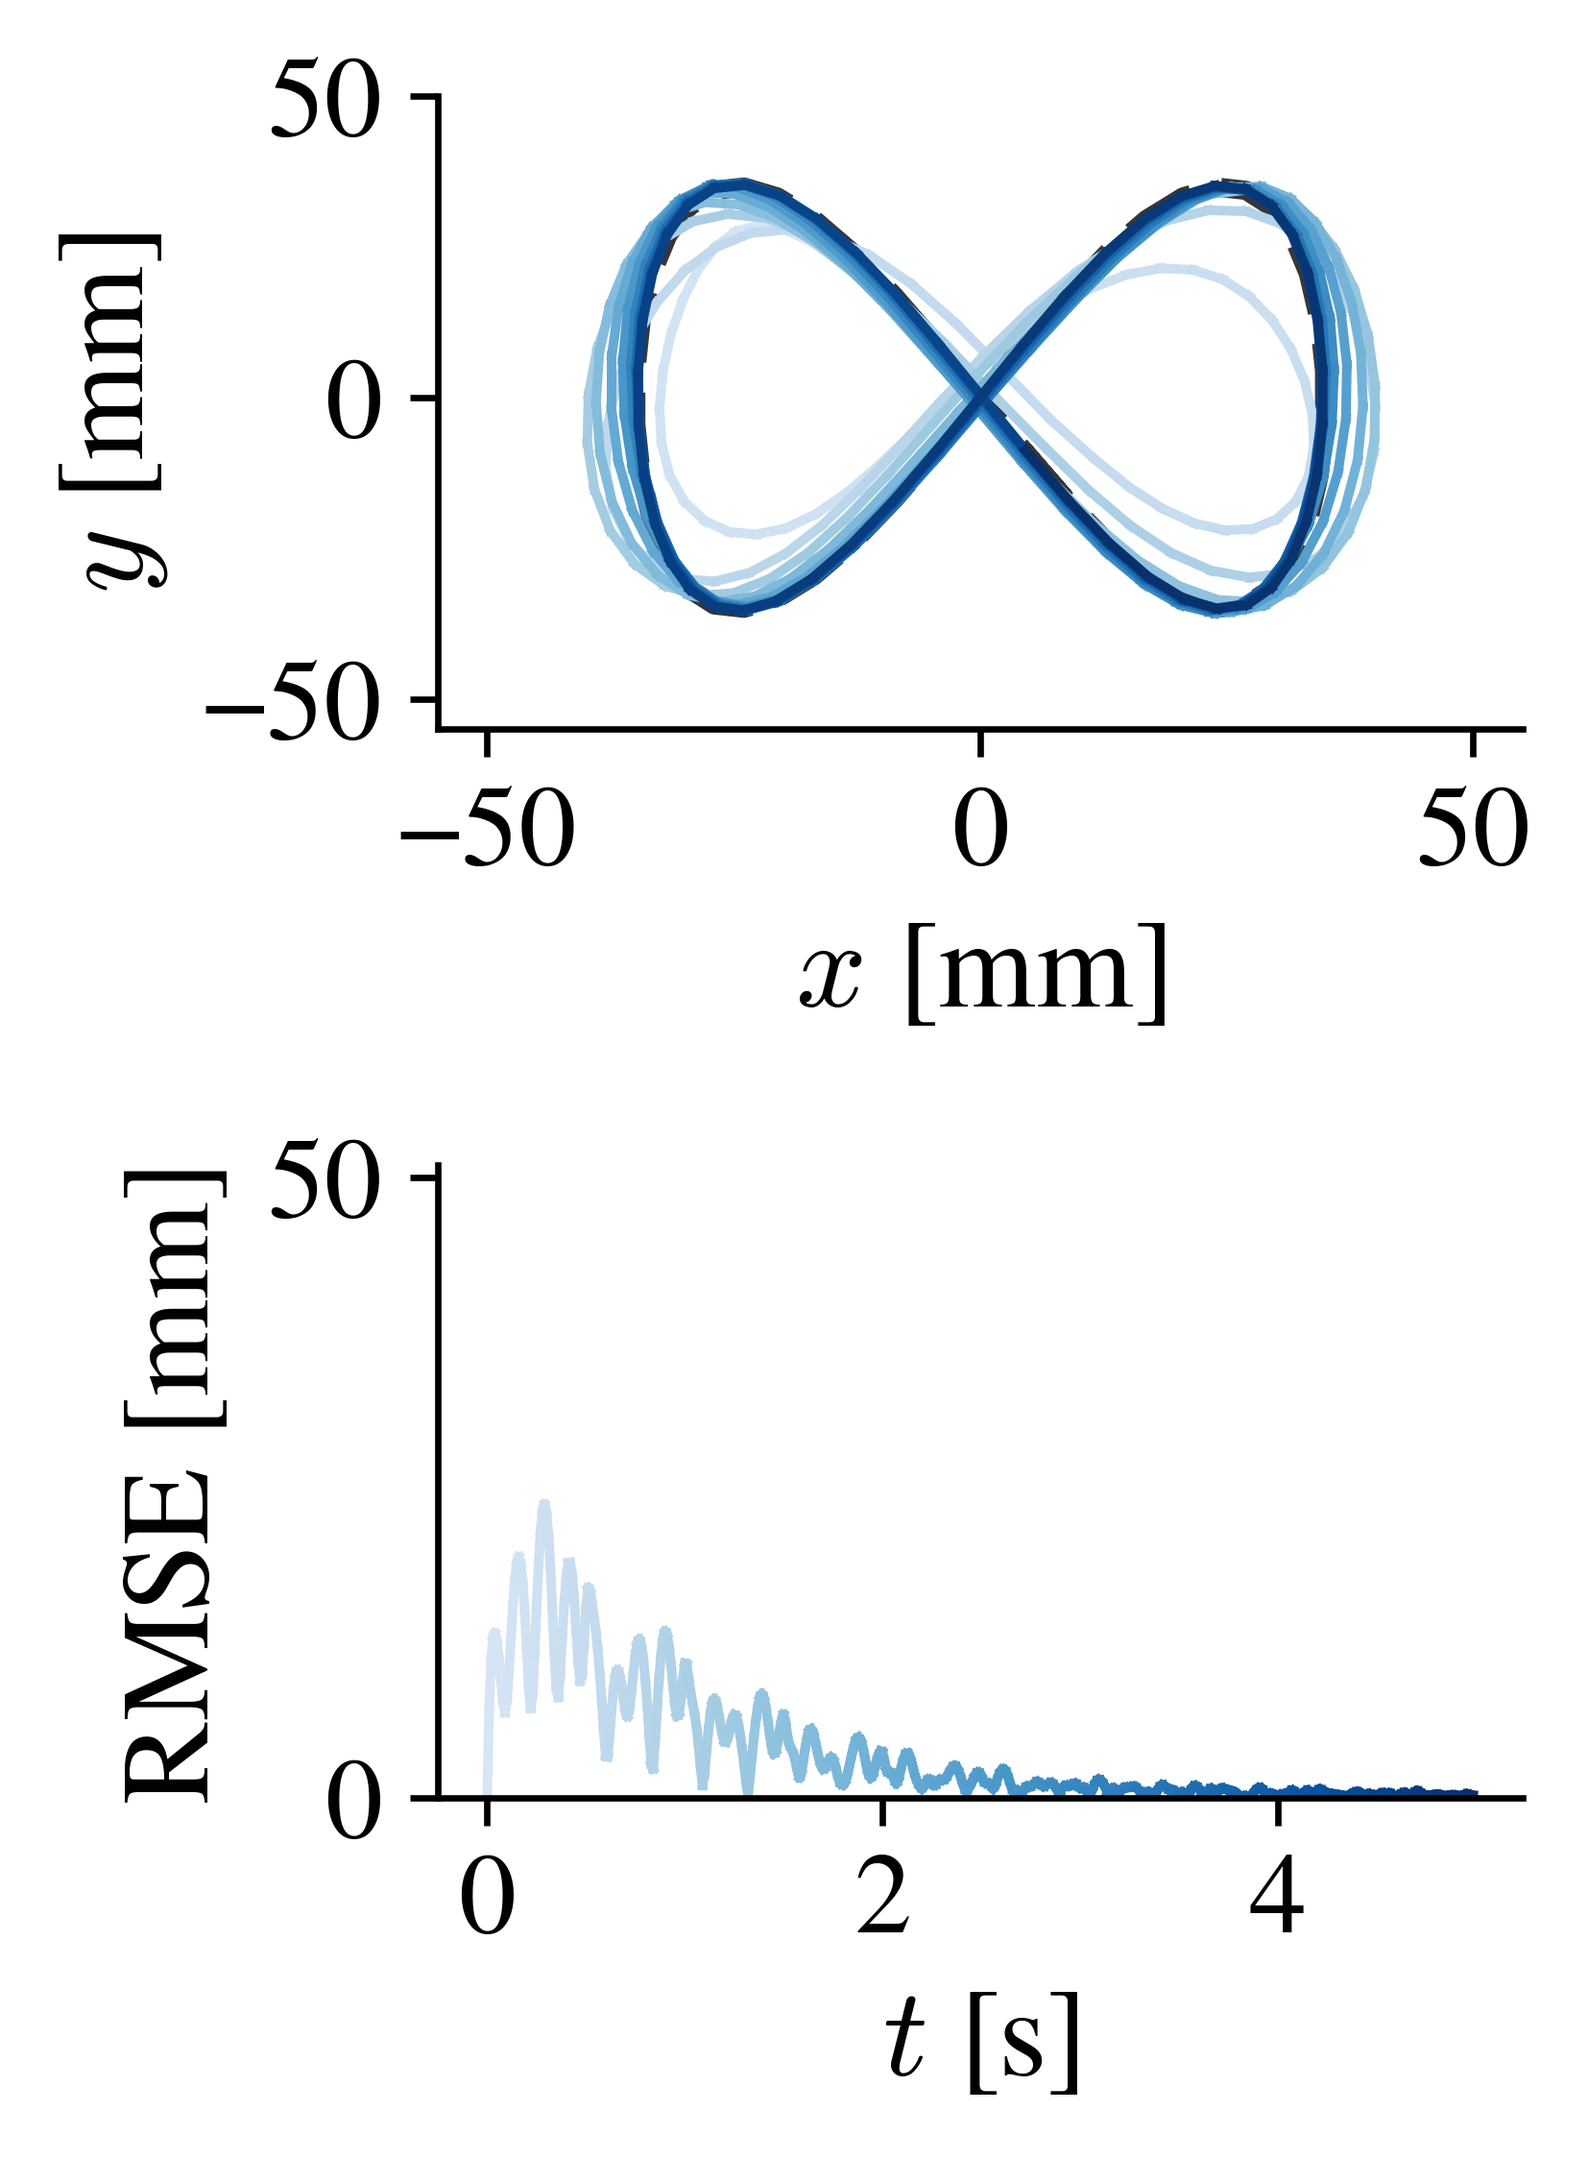
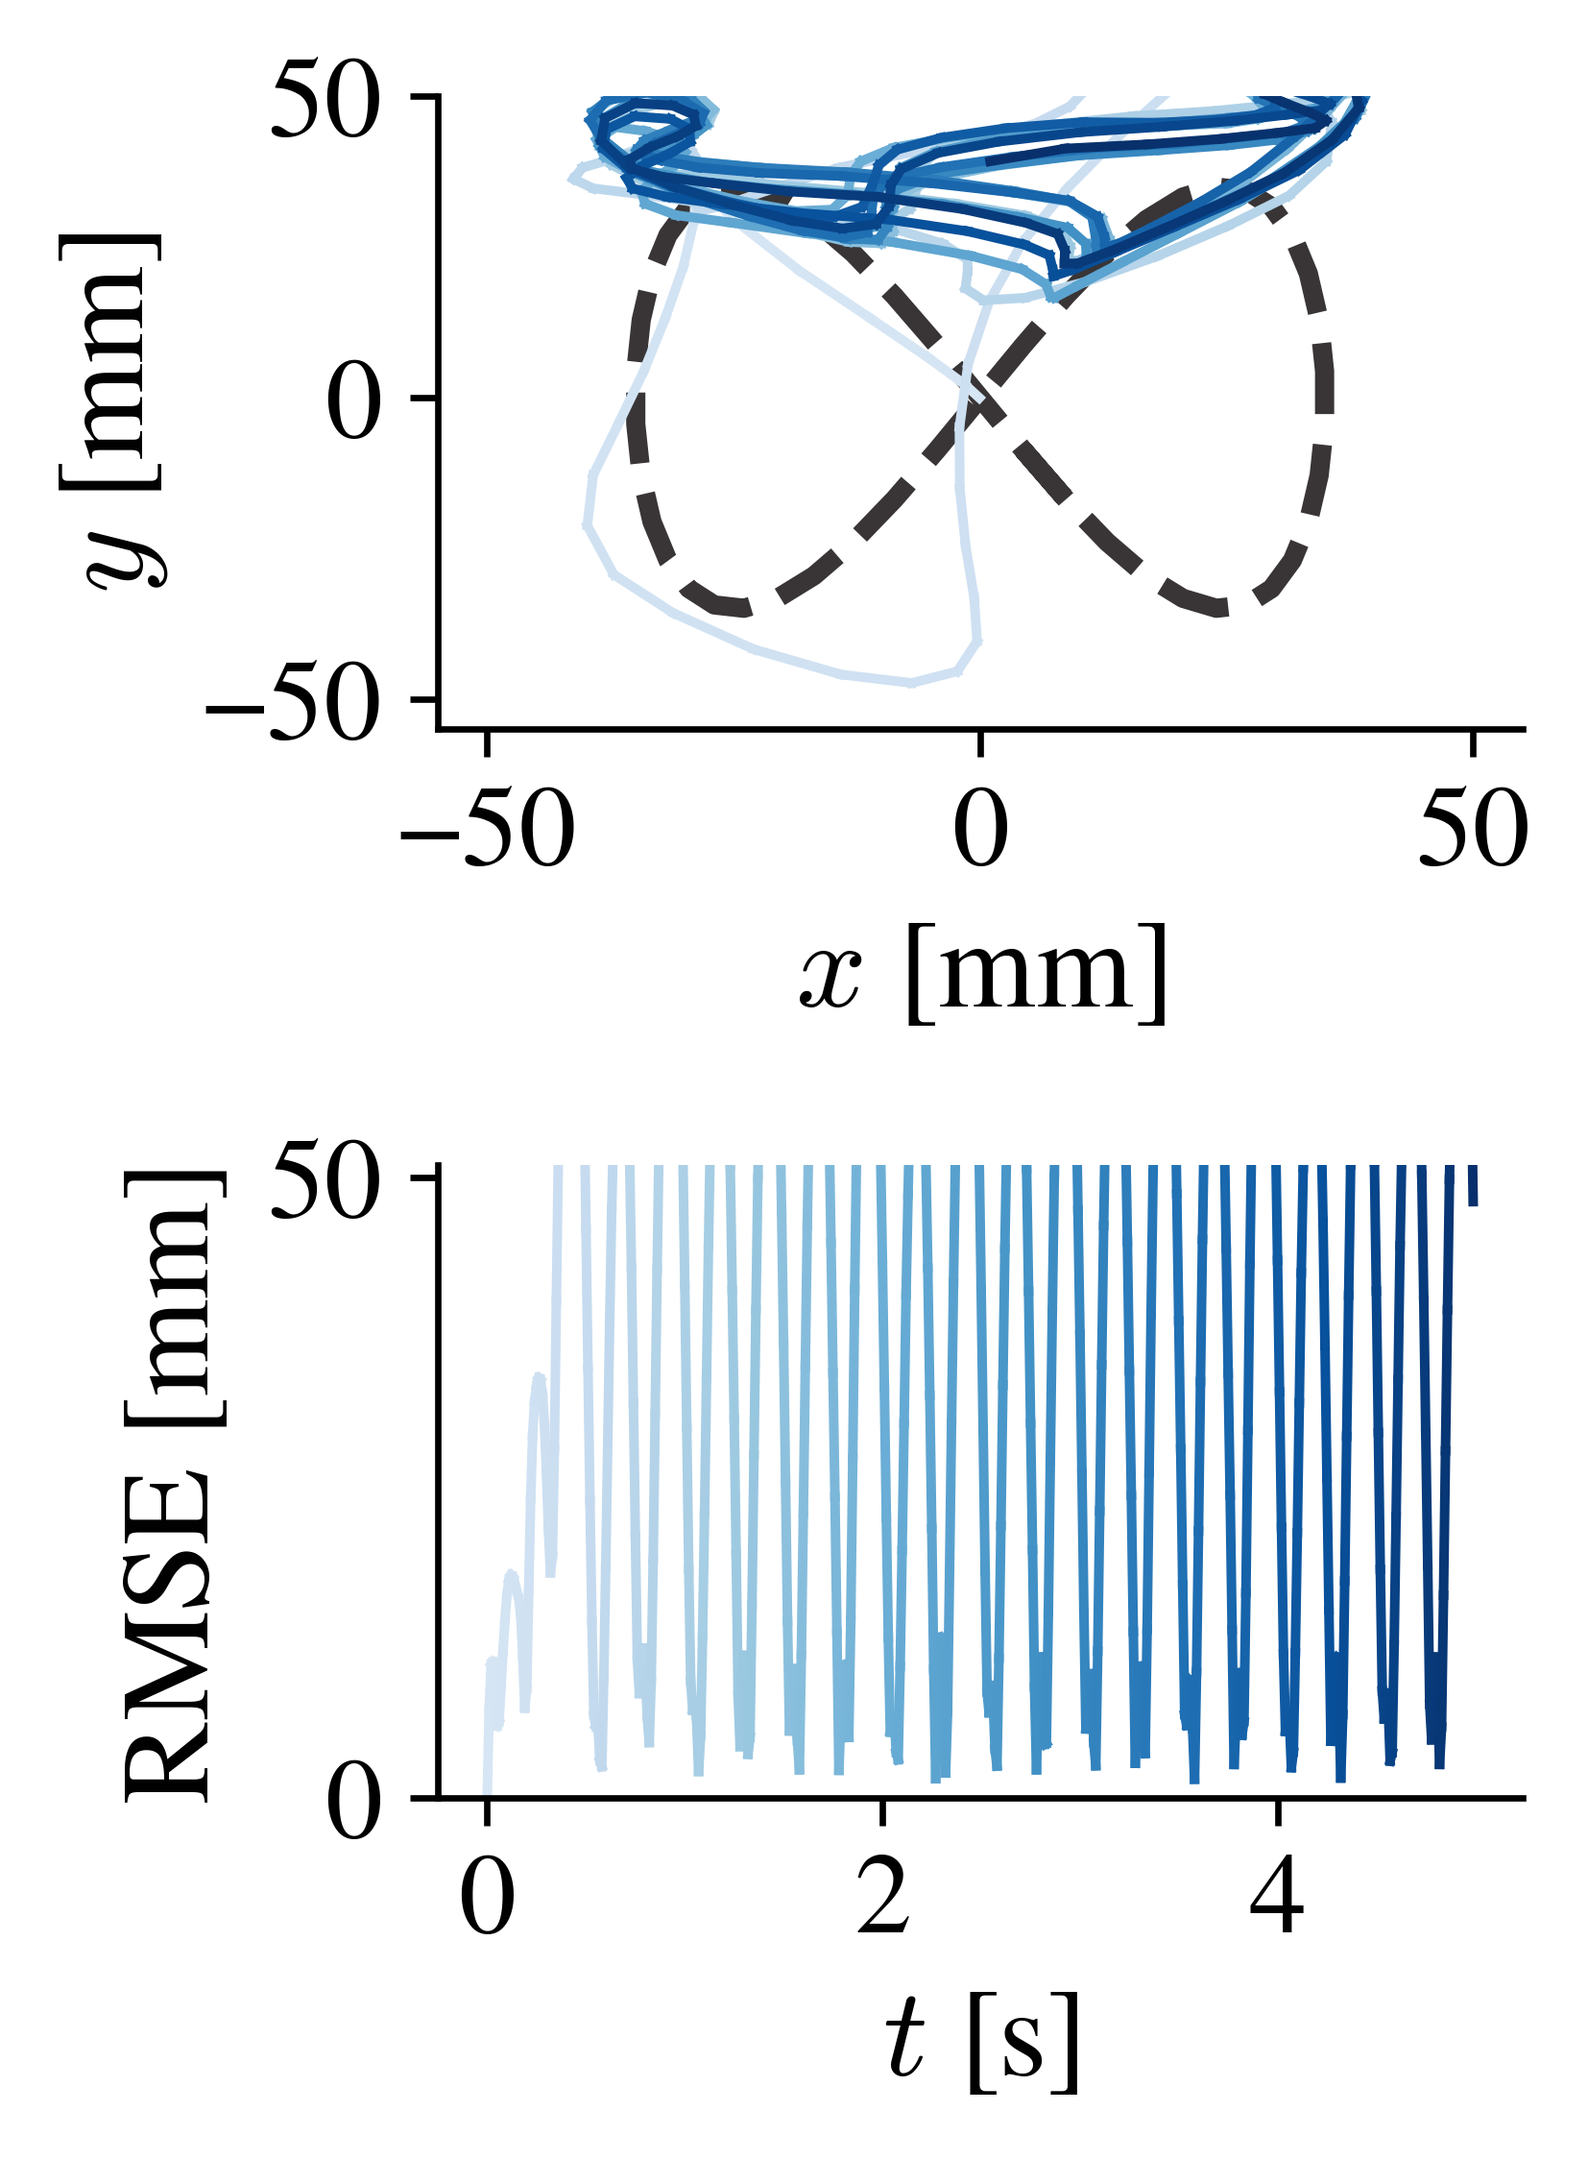
Pi-MPC Implementation (LDO) for IROS24

Changed region(s): [[0.3083, 0.5294, 0.9559, 0.8407], [0.3392, 0.0311, 0.8942, 0.3114], [0.5242, 0.3114, 0.5859, 0.3425]]

diff --git a/sofacontrol/SSM/observer.py b/sofacontrol/SSM/observer.py
@@ -91,32 +91,31 @@ class SSMObserverLDO:
         u = jnp.asarray(u)
         A_d, B_d, d_d = self.dyn_sys.get_jacobians(self.x, u, dt)
 
-        d_curr = self.d[:self.dyn_sys.Nid]
         # innov[k,:] = L_LDO @ ( C @ xhat[k,:] + Cd @ S0 @ dhat[k,:] - y[k,:] )
-        self.err = (self.dyn_sys.reduced_to_output(jnp.array(self.x)) + self.dyn_sys.Cd @ d_curr - self.dyn_sys.C @ y_k)
+        self.err = (self.dyn_sys.reduced_to_output(jnp.array(self.x)) + self.dyn_sys.Cdist @ self.d - self.dyn_sys.C @ y_k)
         self.innov = self.dyn_sys.L_LDO @ self.err
         # xhat[k+1,:] = A @ xhat[k,:] + B @ u[k,:] + Bd @ S0 @ dhat[k,:] + innov[k,:nx]
-        self.x = jnp.asarray(self.dyn_sys.update_dynamics(self.x, u, A_d, B_d, d_d)) + self.dyn_sys.Bd @ d_curr + self.innov[:self.dyn_sys.state_dim]
+        self.x = jnp.asarray(self.dyn_sys.update_dynamics(self.x, u, A_d, B_d, d_d)) + self.dyn_sys.Bdist @ self.d + self.innov[:self.dyn_sys.state_dim]
         # dhat[k+1,:] = Sd @ dhat[k,:] + innov[k,nx:]
         self.d = self.dyn_sys.Sd @ self.d + self.innov[self.dyn_sys.state_dim:]
 
         self.y_prev = jnp.asarray(y)
         
-    def predict_state(self, u, dt):
-        """
-        Predictor update step
-        :param u: input at timestep k
-        :dt: timestep (s)
-        """
-        # Get linearizations of reduced dynamics at current state x
-        u = jnp.asarray(u)
-        A_d, B_d, d_d = self.dyn_sys.get_jacobians(self.x, u, dt)
+    # def predict_state(self, u, dt):
+    #     """
+    #     Predictor update step
+    #     :param u: input at timestep k
+    #     :dt: timestep (s)
+    #     """
+    #     # Get linearizations of reduced dynamics at current state x
+    #     u = jnp.asarray(u)
+    #     A_d, B_d, d_d = self.dyn_sys.get_jacobians(self.x, u, dt)
 
-        # Get current timestep disturbance
-        d_curr = self.d[:self.dyn_sys.Nid]
+    #     # Get current timestep disturbance
+    #     d_curr = self.d[:self.dyn_sys.Nid]
 
-        self.x = jnp.asarray(self.dyn_sys.update_dynamics(self.x, u, A_d, B_d, d_d)) + self.dyn_sys.Bd @ d_curr
-        self.d = self.dyn_sys.Sd @ self.d
+    #     self.x = jnp.asarray(self.dyn_sys.update_dynamics(self.x, u, A_d, B_d, d_d)) + self.dyn_sys.Bd @ d_curr
+    #     self.d = self.dyn_sys.Sd @ self.d
     
     # def update(self, u, y, dt, **kwargs):
     #     """
@@ -130,29 +129,29 @@ class SSMObserverLDO:
     #     self.predict_state(u, dt)
     #     self.update_state(y)
     
-    def update_state(self, y):
-        """
-        Filter update step
-        for details
-        :param y: (centered) measurement at timestep k+1
-        :return x: updated state based on measurement (x_{k+1|k+1})
-        """
+    # def update_state(self, y):
+    #     """
+    #     Filter update step
+    #     for details
+    #     :param y: (centered) measurement at timestep k+1
+    #     :return x: updated state based on measurement (x_{k+1|k+1})
+    #     """
 
-        # Jacobian of manifold mapping (This is predicted x)
-        y = jnp.asarray(y)
-        d_curr = self.d[:self.dyn_sys.Nid]
+    #     # Jacobian of manifold mapping (This is predicted x)
+    #     y = jnp.asarray(y)
+    #     d_curr = self.d[:self.dyn_sys.Nid]
 
-        # self.err = self.dyn_sys.C @ y - self.dyn_sys.reduced_to_output(jnp.array(self.x)) - self.dyn_sys.Cd @ d_curr
+    #     # self.err = self.dyn_sys.C @ y - self.dyn_sys.reduced_to_output(jnp.array(self.x)) - self.dyn_sys.Cd @ d_curr
 
-        # self.x = self.x + self.dyn_sys.Lx @ self.err
-        # self.d = self.d + self.dyn_sys.Ld @ self.err
+    #     # self.x = self.x + self.dyn_sys.Lx @ self.err
+    #     # self.d = self.d + self.dyn_sys.Ld @ self.err
 
-        self.err = (self.dyn_sys.reduced_to_output(jnp.array(self.x)) + self.dyn_sys.Cd @ d_curr - self.dyn_sys.C @ y)
-        self.innov = self.dyn_sys.L_LDO @ self.err
-        self.x = self.x + self.innov[:self.dyn_sys.state_dim] 
-        self.d = self.d + self.innov[self.dyn_sys.state_dim:]
+    #     self.err = (self.dyn_sys.reduced_to_output(jnp.array(self.x)) + self.dyn_sys.Cd @ d_curr - self.dyn_sys.C @ y)
+    #     self.innov = self.dyn_sys.L_LDO @ self.err
+    #     self.x = self.x + self.innov[:self.dyn_sys.state_dim] 
+    #     self.d = self.d + self.innov[self.dyn_sys.state_dim:]
 
-        return self.x
+    #     return self.x
 
 class DiscreteEKFObserver:
     """

diff --git a/sofacontrol/SSM/ssm.py b/sofacontrol/SSM/ssm.py
@@ -8,7 +8,7 @@ import jax.scipy as jsp
 import jax
 from functools import partial
 from sofacontrol.utils import norm2Diff
-from scipy.linalg import block_diag
+from scipy.linalg import block_diag, svdvals
 import control
 import mpctools as mpc
 from os.path import join, exists
@@ -235,8 +235,8 @@ class SSMDynamics(SSM):
                 self.Nid = self.output_dim # TODO: Set this
 
                 # Define design matrices
-                self.Bd = np.zeros((self.state_dim, self.Nid))
-                self.Cd = np.eye(self.Nid)
+                self.Bbar = np.zeros((self.state_dim, self.Nid))
+                self.Cbar = np.eye(self.Nid)
 
                 # TODO: Modify gains here!!!!! Define LDO cost for LQE
                 Q_kalman = block_diag(np.eye(self.state_dim), 20*np.eye(self.Nid * self.Nper)) # TODO: Hard-coded. Should set this in run_gusto_solver method
@@ -244,7 +244,10 @@ class SSMDynamics(SSM):
                 R_kalman = 2*np.eye(self.output_dim)
 
                 # Get shifting matrix
-                self.Sd = scutils.get_LDO_disturbance_matrices(self.Bd, self.Nper)
+                self.Sd = scutils.get_LDO_disturbance_matrices(self.Bbar, self.Nper)
+                self.S0 = scutils.create_S0(self.Nid, self.Nper)
+                self.Bdist = self.Bbar @ self.S0
+                self.Cdist = self.Cbar @ self.S0
                 
                 if exists(gains_path):
                     print('Loading existing Lgains!!!!!!!')
@@ -257,7 +260,7 @@ class SSMDynamics(SSM):
                     A, B, _ = self.get_jacobians(np.zeros(self.state_dim), np.zeros(self.input_dim), dt)
                     # C = self.w_coeff
                     C, _ = self.get_observer_jacobians(np.zeros(self.state_dim))
-                    A_LDO, B_LDO, C_LDO = scutils.get_LDO_LTI(A, B, C, self.Bd, self.Cd, self.Nper)
+                    A_LDO, B_LDO, C_LDO = scutils.get_LDO_LTI(A, B, C, self.Bbar, self.Cbar, self.Nper)
 
                     # Compute Lgains
                     # Unstable (bad):
@@ -275,6 +278,16 @@ class SSMDynamics(SSM):
 
                     self.L_LDO = L_LDO
 
+                    # Check observability of observer
+                    Sd_spectrum = np.linalg.eigvals(self.Sd)
+                    for lam in Sd_spectrum:
+                        svds = svdvals(np.bmat([  [A - lam*np.eye(self.state_dim), self.Bbar],
+                                                            [C, self.Cbar]]))
+                        rank = sum(svds > 1e-8)
+                        if rank < self.state_dim + self.Nid:
+                            print("*Warning: system not observable!")
+
+                    # Check stability of observer
                     print('Eigenvalues of A_LDO + L_LDO @ C_LDO:')
                     print(np.round(np.abs(np.linalg.eigvals(A_LDO + L_LDO @ C_LDO)), 3))
                     if any (np.abs(np.linalg.eigvals(A_LDO + L_LDO @ C_LDO)) > 1):

diff --git a/sofacontrol/scp/locp.py b/sofacontrol/scp/locp.py
@@ -38,15 +38,18 @@ class LOCP:
         self.dU = dU
         self.verbose = verbose
         self.warm_start = warm_start
+        self.general_disturbance = kwargs.pop('general_disturbance', False)
         self.nonlinear_observer = kwargs.pop('nonlinear_observer', False)
-        # self.LDO = kwargs.pop('LDO', False)
-
 
         # Ensure we have a self.H in SSM class such that 2nd dim is dim of RO state
         self.n_x = H.shape[1]
         self.n_z = Qz.shape[0]
         self.n_u = R.shape[0]
-        self.n_d = self.n_z # TODO: Assume disturbance is same dimension as state
+        if self.general_disturbance:
+            print('GENERAL DISTURBANCE - Hardcoded Period')
+            self.n_d = 150 #TODO: This is hard coded for now
+        else:
+            self.n_d = self.n_z
 
         # Characteristic values for scaling
         if x_char is None:
@@ -125,7 +128,7 @@ class LOCP:
 
                 if d is not None:
                     if d.shape[0] < (self.N + 1) * self.n_d:
-                        print('CONSTANT DISTURBANCE')
+                        print('TILING THE DISTURBANCE')
                         # Repeat the disturbance to match the size of the parameter
                         self.d.value = np.ravel(np.tile(d, (self.N + 1, 1)))
                     else:
@@ -261,6 +264,17 @@ class LOCP:
         """
         Compute the quadratic part of the objective in OSQP format
         """
+        # cp_block_diag function
+        def cp_block_diag(A, n):
+            Afull = []
+            dim1 = A.shape[0]
+            dim2 = A.shape[1]
+            for i in range(n):
+                cur = [np.zeros((dim1, dim2))] * n
+                cur[i] = A
+                Afull.append(cur)
+            return cp.bmat(Afull)
+
         J = 0
 
         # Control cost

diff --git a/examples/hardware/diamond_SSM.py b/examples/hardware/diamond_SSM.py
@@ -25,7 +25,7 @@ dt = 0.01 # This dt for when to recalculate control
 ######## Generate LDO Parameters ########
 Mper = 10  # Number of periods to simulate
 Tper = 0.5  # Period of trajectory
-Nper = int(Tper / dt) # Number of points per period (this will be trigger for doing LDO)
+Nper = 1 # int(Tper / dt) # Number of points per period (this will be trigger for doing LDO)
 # Nper = None
 
 def run_scp():
@@ -150,7 +150,7 @@ def run_gusto_solver():
     obstacleLoc = [np.array([-12, 12]), np.array([8, 12])]
 
     # Constrol Constraints
-    u_min, u_max = 0.0, 6200.0
+    u_min, u_max = 0.0, 5000.0
     du_max = None
 
     ######## Generate SSM model and setup control task ########
@@ -317,7 +317,7 @@ def run_gusto_solver_LDO():
     ###### Control Task Parameters ######
     # X-Y Figure 8
     controlTask = "figure8" # figure8, circle, or custom
-    trajAmplitude = 35.
+    trajAmplitude = 35 # 35. Used for paper experiments
     trajFreq = None # rad/s # 15, 20, 25, 30, 35
     z_offset = None
     outdofs = [0, 1, 2]
@@ -421,7 +421,7 @@ def run_gusto_solver_LDO():
     # Define GuSTO model
     gusto_model = SSMGuSTO(model)
     runGuSTOSolverNode(gusto_model, N, dt, Qz, R, x0, t=taskParams['t'], z=taskParams['z'], U=taskParams['U'], X=taskParams['X'],
-                       verbose=1, warm_start=True, convg_thresh=0.001, solver='GUROBI',
+                       verbose=1, warm_start=True, convg_thresh=0.001, solver='GUROBI', general_disturbance=False,
                        max_gusto_iters=0, input_nullspace=None, dU=taskParams['dU'], jit=True)#, u=taskParams['u'])
 
 def run_scp_OL():

diff --git a/examples/plotting2.py b/examples/plotting2.py
@@ -666,11 +666,12 @@ def plot_RMSE_v_t():
         rmse[control] = np.sqrt(np.mean(np.linalg.norm(err[control], axis=1)**2, axis=0))
     
     # Print average RMSE after half of the trajectory
-    print("Average RMSE after half of the trajectory:")
+    print("Average error in the last period:")
+    nperiods = 10
     for control in CONTROLS:
-        print(f"{SETTINGS['display_name'][control]}: {np.mean(np.linalg.norm(err[control], axis=1)[int(len(err[control])/2):]):.3f} mm")
+        print(f"{np.mean( np.linalg.norm(err[control], axis=1) [-4*int(len(err[control])/nperiods):-3*int(len(err[control])/nperiods)-2] ):.3f} mm")
 
-    """Plot RMSE as function of time"""
+    """Plot error as function of time"""
     fig, ax = plt.subplots(1, 1, figsize=(8, 6), facecolor='w', edgecolor='k')
     for control in CONTROLS:
 
@@ -1488,16 +1489,16 @@ if __name__ == "__main__":
 
     if SETTINGS['show']['ssmr_linear']:
         # traj_inputs_vs_t()
-        # plot_RMSE_v_t()
+        plot_RMSE_v_t()
         # traj_x_vs_y()
         traj_2()
         # traj_xy_vs_t()
     
     if SETTINGS['show']['ssmr_linear_LDO']:
         # traj_inputs_vs_t()
-        # plot_RMSE_v_t()
+        plot_RMSE_v_t()
         # traj_x_vs_y()
-        traj_2()
+        # traj_2()
         # plot_trueDist_v_t_interp()
         # innovation_vs_t()
 

diff --git a/sofacontrol/scp/gusto.py b/sofacontrol/scp/gusto.py
@@ -121,6 +121,9 @@ class GuSTO:
         self.f_scale = 1. / np.abs(self.f_char)
         kwargs.pop('f_char', None)
 
+        ## Use the full disturbance state ##
+        self.general_disturbance = kwargs.get('general_disturbance', False)
+
         ## Problem parameters ##
         self.x_k = None  # Previous state
         self.u_k = None  # Previous input
@@ -352,7 +355,11 @@ class GuSTO:
             G_d, b_d = None, None
         
         if d is not None:
-            d_k = d[:self.model.dyn_sys.Nid * (self.N + 1)] # TODO: ensure dyn_sys.Nid exists
+            if self.general_disturbance:
+                print('Using FULL disturbance state')
+                d_k = d
+            else:
+                d_k = d[:self.model.dyn_sys.Nid * (self.N + 1)] # TODO: ensure dyn_sys.Nid exists
         else:
             d_k = None
 

diff --git a/problem_specification.py b/problem_specification.py
@@ -37,8 +37,8 @@
 # problem = diamond_koopman.run_MPC_OL
 
 from examples.hardware import diamond_SSM
-# problem = diamond_SSM.run_scp
-problem = diamond_SSM.run_scp_LDO
+problem = diamond_SSM.run_scp
+# problem = diamond_SSM.run_scp_LDO
 # problem = diamond_SSM.run_scp_OL
 # problem = diamond_SSM.module_test
 # problem = diamond_SSM.module_test_continuous
